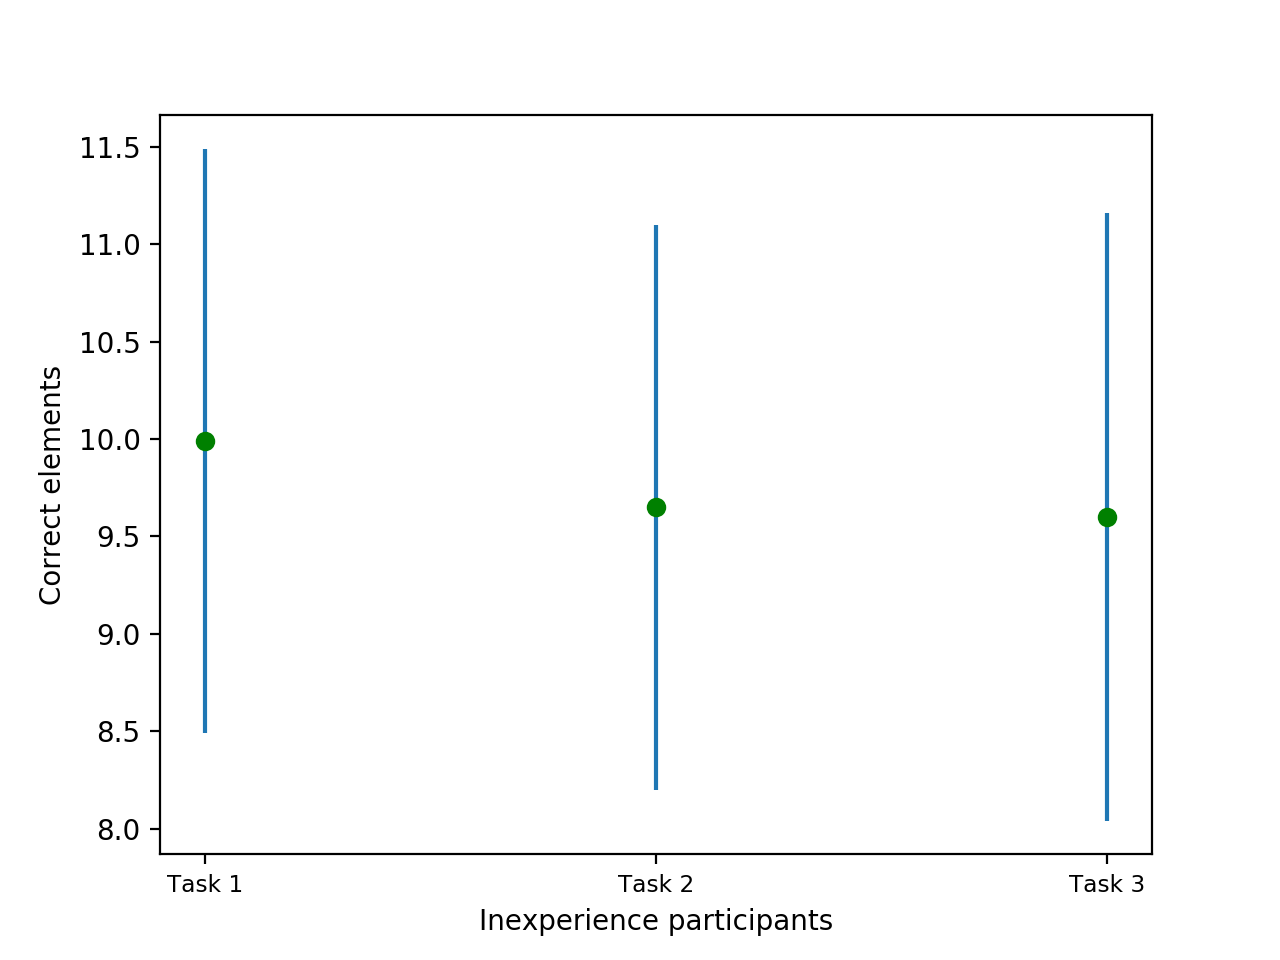
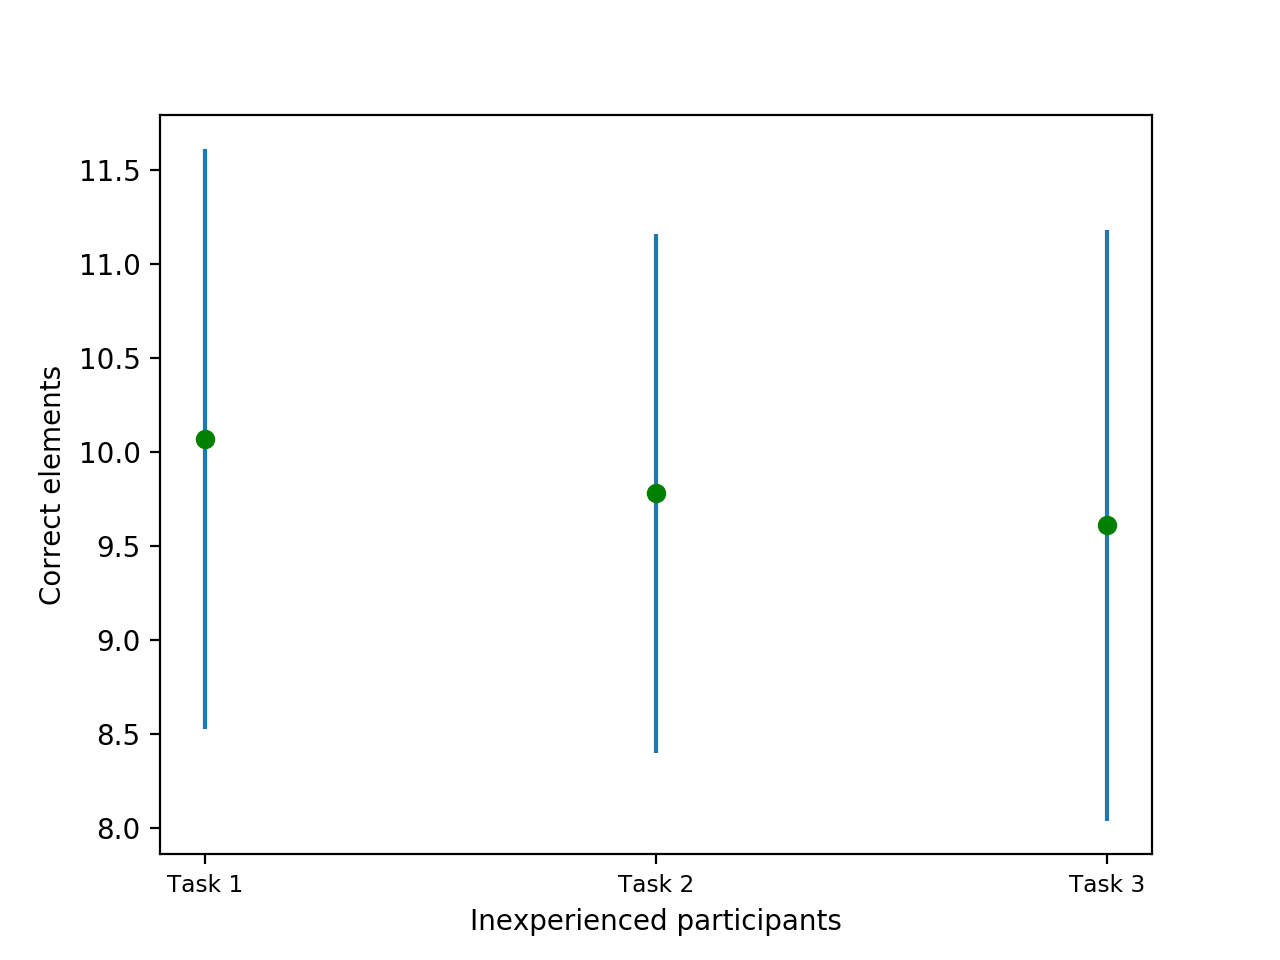
ldsfkjsd

diff --git a/statistic_analysis/utils/file_links.py b/statistic_analysis/utils/file_links.py
@@ -44,7 +44,7 @@ file_task1_orderedby_totaltime_inexperienced_not_interupted = path_1+'inexperien
 #       correct
 file_task1_orderedby_totalcorrect_all_not_interupted = path_1+'all_was_not_interupted_taskid1_orderby_taskresult__total_correct_elements.csv'
 file_task1_orderedby_totalcorrect_experienced_not_interupted = path_1+'experienced_was_not_interupted_task1_orderby_taskresult__total_correct_elements.csv'
-file_task1_orderedby_totalcorrect_inexpernced_not_interupted = path_1+'experienced_was_not_interupted_task1_orderby_taskresult__total_correct_elements.csv'
+file_task1_orderedby_totalcorrect_inexperienced_not_interupted = path_1+'inexperienced_was_not_interupted_task1_orderby_taskresult__total_correct_elements.csv'
 
 path_2 = 'task2/'
 #       time
@@ -54,14 +54,14 @@ file_task2_orderedby_totaltime_inexperienced_not_interupted = path_2+'inexperien
 #       correct
 file_task2_orderedby_totalcorrect_all_not_interupted = path_2+'all_was_not_interupted_taskid2_orderby_taskresult__total_correct_elements.csv'
 file_task2_orderedby_totalcorrect_experienced_not_interupted = path_2+'experienced_was_not_interupted_task2_orderby_taskresult__total_correct_elements.csv'
-file_task2_orderedby_totalcorrect_inexperienced_not_inrupted = path_2+'experienced_was_not_interupted_task2_orderby_taskresult__total_correct_elements.csv'
+file_task2_orderedby_totalcorrect_inexperienced_not_interupted = path_2+'inexperienced_was_not_interupted_task2_orderby_taskresult__total_correct_elements.csv'
 
 
 path_3 = 'task3/'
 #       time
 file_task3_orderedby_totaltime_all_not_interupted = path_3+'all_was_not_interupted_taskid3_orderby_taskresult__totaltime.csv'
 file_task3_orderedby_totaltime_experienced_not_interupted = path_3+'experienced_was_not_interupted_task3_orderby_taskresult__totaltime.csv'
-file_task3_orderedby_totaltime_inexperienced_not_interupted = path_3+'inexperienced_was_not_interupted_task4_orderby_taskresult__totaltime.csv'
+file_task3_orderedby_totaltime_inexperienced_not_interupted = path_3+'inexperienced_was_not_interupted_task3_orderby_taskresult__totaltime.csv'
 #       correct
 file_task3_orderedby_totalcorrect_all_not_interupted = path_3+'all_was_not_interupted_taskid3_orderby_taskresult__total_correct_elements.csv'
 file_task3_orderedby_totalcorrect_experienced_not_interupted = path_3+'experienced_was_not_interupted_task3_orderby_taskresult__total_correct_elements.csv'
